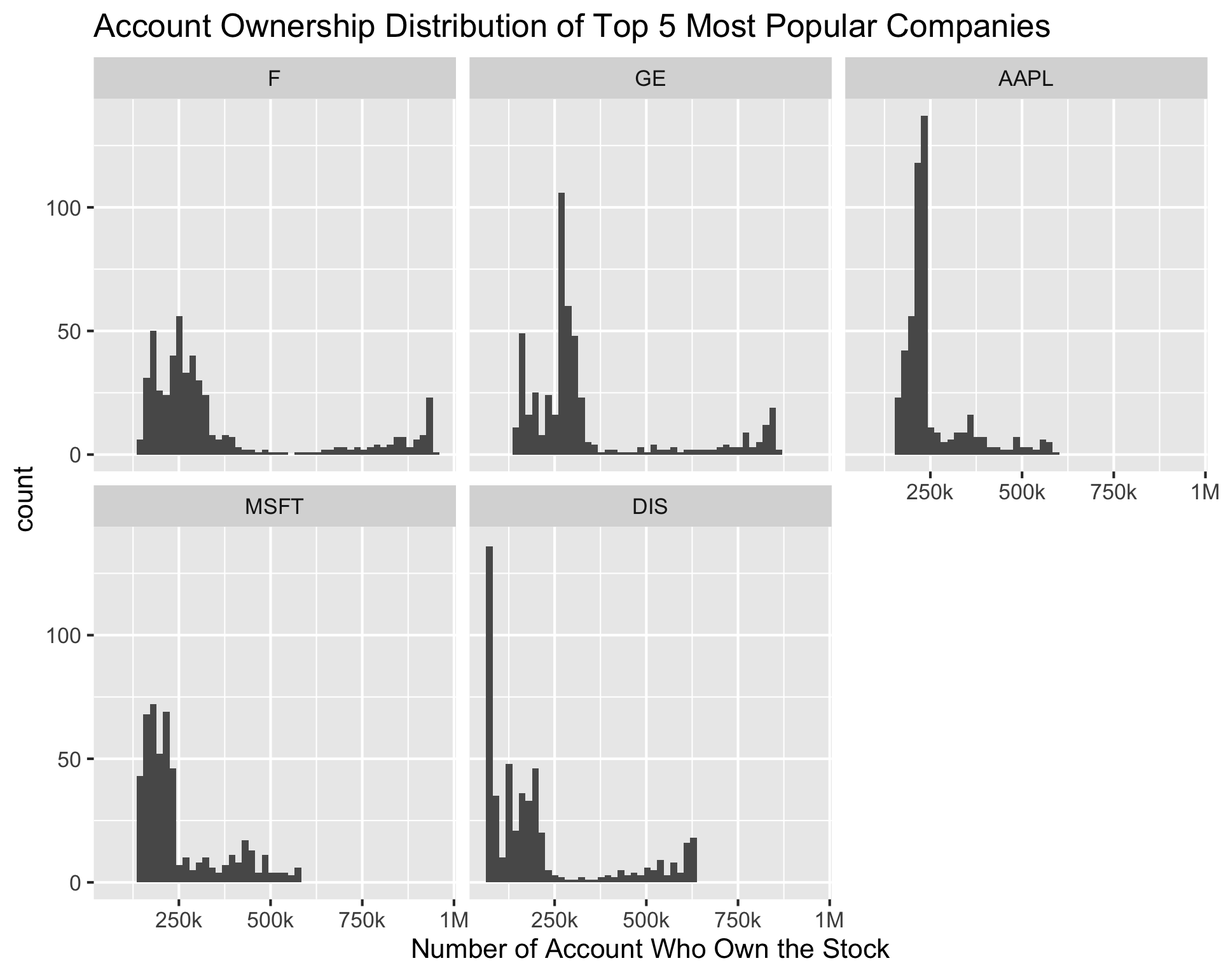
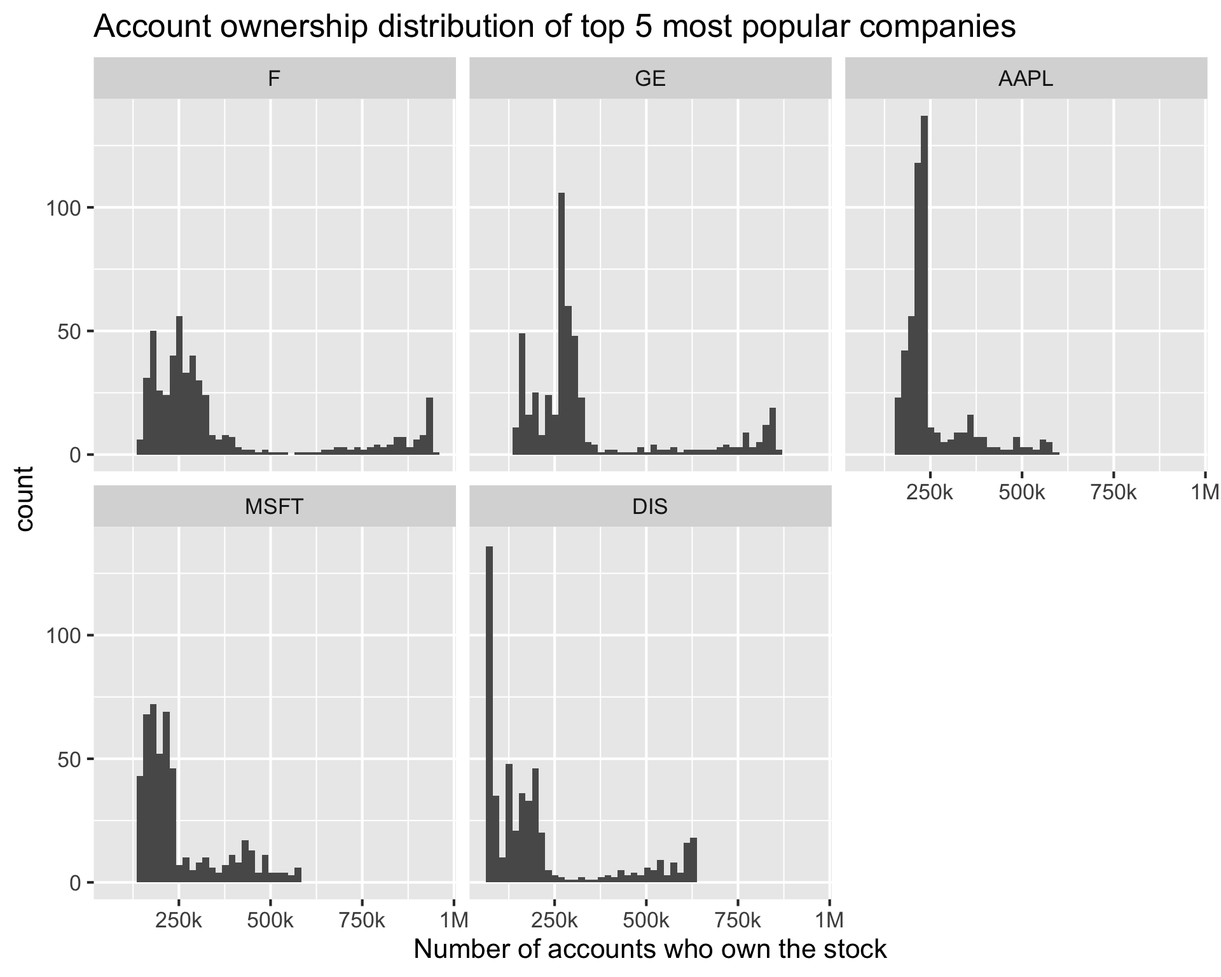
results so far

Changed region(s): [[0.1875, 0.0, 0.8438, 0.0625], [0.5312, 0.9375, 0.7188, 1.0], [0.3438, 0.9375, 0.4688, 1.0]]

diff --git a/docs/results.html b/docs/results.html
@@ -99,8 +99,8 @@
 </ul></li>
 <li class="chapter" data-level="5" data-path="results.html"><a href="results.html"><i class="fa fa-check"></i><b>5</b> Results</a><ul>
 <li class="chapter" data-level="5.1" data-path="results.html"><a href="results.html#important-terms"><i class="fa fa-check"></i><b>5.1</b> Important terms</a></li>
-<li class="chapter" data-level="5.2" data-path="results.html"><a href="results.html#yearly-average-ownership-by-industry"><i class="fa fa-check"></i><b>5.2</b> Yearly average ownership by industry</a></li>
-<li class="chapter" data-level="5.3" data-path="results.html"><a href="results.html#ownership-by-company"><i class="fa fa-check"></i><b>5.3</b> Ownership by company</a></li>
+<li class="chapter" data-level="5.2" data-path="results.html"><a href="results.html#yearly-average-stock-ownership-by-industry"><i class="fa fa-check"></i><b>5.2</b> Yearly average stock ownership by industry</a></li>
+<li class="chapter" data-level="5.3" data-path="results.html"><a href="results.html#a-closer-look-at-the-companies"><i class="fa fa-check"></i><b>5.3</b> A closer look at the companies</a></li>
 <li class="chapter" data-level="5.4" data-path="results.html"><a href="results.html#ownership-of-the-very_popular-companies"><i class="fa fa-check"></i><b>5.4</b> Ownership of the <code>very_popular</code> companies</a></li>
 <li class="chapter" data-level="5.5" data-path="results.html"><a href="results.html#ownership-vs-founding-year"><i class="fa fa-check"></i><b>5.5</b> Ownership vs Founding Year</a></li>
 </ul></li>
@@ -127,14 +127,17 @@
             <section class="normal" id="section-">
 <div id="results" class="section level1">
 <h1><span class="header-section-number">Chapter 5</span> Results</h1>
-<p>The main focus of our analysis will examine Robintrack’s users stock holding of the S&amp;P500 companies between August 2018 - August 2020. We will explore how price, market cap, industry and founding year affect user’s holding.</p>
+<p>The main focus of our analysis will examine Robihood’s users stock holding of the S&amp;P500 companies between August 2018 - August 2020. We will explore how price, market cap, industry and founding year affect user’s holding.</p>
 <div id="important-terms" class="section level2">
 <h2><span class="header-section-number">5.1</span> Important terms</h2>
+<p>We quantify how <strong>popular</strong> a company is by how many Robihood users hold its stock. More specifically, as mentioned in the data transformation section, we measure a stock’s popularity by averaging the amount of users holding across 2018-2020.</p>
+<p>Moreover, we assign each company to a popularity group by using KMeans clustering(k=3) for the average user’s holding over those 3 years. The three popularity categories are; <code>not_popular</code>(n=473), <code>normal</code>(n=16) and <code>very_popular</code>(n=5).</p>
+<p>As expected, most of the companies in the S&amp;P500 belong in the <code>not_popular</code> category and only 5 companies in the <code>very_popular</code> category.</p>
 </div>
-<div id="yearly-average-ownership-by-industry" class="section level2">
-<h2><span class="header-section-number">5.2</span> Yearly average ownership by industry</h2>
-<p>The first transformed dataframe the average user’s stock holding per industry for 2018, 2019 and 2020.</p>
-<p>In order explore the shifts in the most popular industries between 2018-2020, we have created a Clevland plot for which we have sorted the y axis in descending order for the users holding on 2020.</p>
+<div id="yearly-average-stock-ownership-by-industry" class="section level2">
+<h2><span class="header-section-number">5.2</span> Yearly average stock ownership by industry</h2>
+<p>First we explore the average user’s stock holding per industry for 2018, 2019 and 2020.</p>
+<p>In order explore the shifts in the most popular industries between 2018-2020, we have created a Cleveland plot for which we have sorted the y axis in descending order for the users holding on 2020.</p>
 <p><img src="finalproj_files/figure-html/qplot51-1.png" width="960" /></p>
 <p>Some insights that we can extract from the above plot are:</p>
 <ul>
@@ -142,67 +145,86 @@
 <li><p>This jump is especially evident in the following industries;<code>Comunication Services</code>, <code>Consumer Discretionary</code>,<code>Industrials</code> and <code>Energy</code>.</p></li>
 <li><p>The largest jump in user’s holding between 2019 and 2020 was in the <code>Consumer Discretionary</code> industry. A possible explanation could be the increased interest of the Amazon (AMZN) stock during the pandemic.</p></li>
 <li><p>Even though <code>Information Technology</code> industry had the second highest average user’s holding in 2018 and 2019, in 2020 it dropped to 4th place.</p></li>
-<li><p>Similarly in 2018 &amp; 2019 <code>Energy</code> industry was less attractive than <code>Consumer Staples</code>. However, in 2020 <code>Energy</code> attracted more stock holders. ``</p></li>
-<li><p>Another evident trend is that <code>Utilities</code>, <code>Materials</code> and <code>Real Estate</code> has similar average user’s holding between 2018 and 2019. On the other hand the rest of the industried have experienced and increase in user’s holding between these two years.</p></li>
+<li><p>Similarly in 2018 &amp; 2019 <code>Energy</code> industry was less attractive than <code>Consumer Staples</code>. However, in 2020 <code>Energy</code> attracted more stock holders.</p></li>
 <li><p>Moreover, <code>Consumer Staples</code> and <code>Industrials</code> industries have almost the same stock holding between 2018 and 2019. That trend was broken in 2020 when <code>Industrials</code> almost tripled in user’s holding compared to <code>Consumer Staples</code>.</p></li>
+<li><p>Another trend that we observe is that <code>Utilities</code>, <code>Materials</code> and <code>Real Estate</code> have similar average user’s holding between 2018 and 2019. On the other hand the rest of the industries have experienced an increase in user’s holding between these two years.</p></li>
 </ul>
 </div>
-<div id="ownership-by-company" class="section level2">
-<h2><span class="header-section-number">5.3</span> Ownership by company</h2>
-<p>In this subsection, we dig deeper to see if there are any pattern at the individual company level.</p>
-<p>We created a Cleveland dot plot to show the average number of account owners across all the companies in the S&amp;P500. In order to clearly show all 500 companes within the S&amp;P500, we plotted five Cleveland dot plots of 100 companies each in descending order by average account ownership over the time period with the same x-axis scale for ease of comparison.</p>
-<p>We can quickly see from these 5 graphs that the majority of the stocks are “not popular” which means there are few accounts who own this stock. There are only a handful of stocks that have considerably higher number of accounts who own the stocks. Based on this observation, we divide the companies into three categories: very popular, normally popular, and not popular with details noted in the Data Transformation section. In the subsequent data exploration, we focus our attention on the “very popular” category given there are much greater investor attention on these companies.</p>
+<div id="a-closer-look-at-the-companies" class="section level2">
+<h2><span class="header-section-number">5.3</span> A closer look at the companies</h2>
+<p>After exploring the trends in users holding by industry, we dig deeper to see if there are any patterns at the individual company level.</p>
+<p>As we already mentioned in the introduction of this section we divide the companies into three categories: very popular, normally popular. In the subsequent data exploration, we focus our attention on the “very popular” category given there are much greater investor attention on these companies.</p>
 <p>We first take a look at companies within the most popular category.</p>
 <pre><code>## [1] &quot;F&quot;    &quot;GE&quot;   &quot;AAPL&quot; &quot;MSFT&quot; &quot;DIS&quot;</code></pre>
 <p>The top five most popular (by average number of account owners) companies are F (Ford Motors Vehicle), GE (General Electric Company), AAPL (Apple), MSFT (Microsoft), and DIS (Disney). Unsurprisingly these are well-established companies that most households know. This is consistent with intuition that the most investors using the Robinhood app are retail investors so would invest in stable, well-known companies.</p>
 <pre><code>##  [1] &quot;AMD&quot;  &quot;FB&quot;   &quot;BAC&quot;  &quot;AMZN&quot; &quot;TWTR&quot; &quot;NFLX&quot; &quot;AAL&quot;  &quot;DAL&quot;  &quot;NVDA&quot; &quot;SBUX&quot;
 ## [11] &quot;T&quot;    &quot;CCL&quot;  &quot;BA&quot;   &quot;KO&quot;   &quot;MU&quot;   &quot;NCLH&quot;</code></pre>
-<p>In the second tier of “normal”(ly) popular companies are AMD (Advanced Micro Devices), FB (Facebook), BAC (Bank of America), AMZN (Amazon), TWTR (Twitter), NFLX (Netflix), AAL (American Airline), DAL (Delta Airline), DAL (Nvidia), SBUX (Starbucks), T (AT&amp;T), Carnival, Boeing, Coca-Cola, Micron Technology, and Norwegian Cruise Line. Well most of these companies are also well-established companies, these are additional intuition supporting relatively higher account ownership behind these stocks. Many of these companies were heavily impacted by the pandemic and received intense investor attention in the post-COVID financial market. Travel-related companies such as American Airline, Delta Airline, and Boeing as well as leisure-related companies including Carnival and Norwegian Cruise line had businesses that were negatively impacted by the restriction imposed during the pandemic. This led to their stock prices to plummet considerably. Retail investors perhaps saw this as an opportunity to “buy the dip” and increase account ownership for these companies. Another trend we see is the prevalence of tech companies that are positively impacted by the work-from-home dynamic in the post-COVID world. Companies such as Advanced Micro Devices and Nvidia produce computing chips and systems for mobile computing</p>
+<p>In the second tier of “normal”(ly) popular companies are AMD (Advanced Micro Devices), FB (Facebook), BAC (Bank of America), AMZN (Amazon), TWTR (Twitter), NFLX (Netflix), AAL (American Airline), DAL (Delta Airline), DAL (Nvidia), SBUX (Starbucks), T (AT&amp;T), Carnival, Boeing, Coca-Cola, Micron Technology, and Norwegian Cruise Line.</p>
+<p>Most of these companies are also well-established companies, these are additional intuition supporting relatively higher account ownership behind these stocks. Many of these companies were heavily impacted by the pandemic and received intense investor attention in the post-COVID financial market. Travel-related companies such as American Airline, Delta Airline, and Boeing as well as leisure-related companies including Carnival and Norwegian Cruise line had businesses that were negatively impacted by the restriction imposed during the pandemic. This led to their stock prices to plummet considerably. Retail investors perhaps saw this as an opportunity to “buy the dip” and increase account ownership for these companies.</p>
+<p>Another trend we see is the prevalence of tech companies that are positively impacted by the work-from-home dynamic in the post-COVID world. Companies such as Advanced Micro Devices and Nvidia produce computing chips and systems for mobile computing.</p>
 <p>As we shall see later in our data exploration, Robinhood saw a significant increase in new accounts and investing activity post March 2020, further supporting the intuition that companies that were heavily impacted by the pandemic would see heightened attention.</p>
 </div>
 <div id="ownership-of-the-very_popular-companies" class="section level2">
 <h2><span class="header-section-number">5.4</span> Ownership of the <code>very_popular</code> companies</h2>
 <p>To better understand the distribution shape of the individual account ownership, we first looked at the histogram of the top 5 companies’ ownership distribution.</p>
-<p><img src="finalproj_files/figure-html/unnamed-chunk-15-1.png" width="960" /></p>
+<p><img src="finalproj_files/figure-html/unnamed-chunk-10-1.png" width="960" /></p>
 <p>Looking at the individual account ownership of the top 5 most popular companies, we can see that they are all right skewed distribution. There is one peak with high frequency for &lt;= 250k account owners. For companies like Disney, Ford, and General Electric there is a second peak near the highest number of accounts (750k-1mm) but that peak is much smaller the first at the lower end. This makes intuitive sense as the second peak of high number of accounts would result in an elevated average account ownership putting in on the most popular list. The more popular companies (such as F and GE) tend to have wider min-to-max ranges than the less popular ones.</p>
 <p>Next, we use boxplots to show the distribution of account ownership of the individual stocks within the most popular category. The circle denotes the mean for comparison with the quartiles.</p>
-<p><img src="finalproj_files/figure-html/unnamed-chunk-16-1.png" width="672" /></p>
-<p>Looking at the boxplots, it is evident that there are considerably number of outliers across all 5 companies. Almost all of the outliers are skewed toward the high end which would increase the average account ownership across the time period. With the exception of MSFT, the mean across the remaining 4 companies seems to be near or above the upper hinge. APPL stands out with a much smaller H-spread compared to the other companies suggesting that the number of accounts who owned Apple is concentrated around just below the 250k mark. Within the H-spread, the length to the lower hinge and upper hinge look to be relatively symmetric.</p>
-<p>As we tried to examine any patterns regarding outliers, we used time series line graphs to introduce time as another variable.</p>
+<p><img src="finalproj_files/figure-html/unnamed-chunk-11-1.png" width="672" /></p>
+<p>Looking at the boxplots:</p>
+<ul>
+<li><p>It is evident that there are considerably number of outliers across all 5 companies. Almost all of the outliers are skewed toward the high end which would increase the average account ownership across the time period.</p></li>
+<li><p>General Electric and Ford are the most popular among the top 5 companies. However, General Electric has a smaller spread than Ford.</p></li>
+<li><p>With the exception of Microsoft, the mean across the remaining 4 companies seems to be near or above the upper hinge.</p></li>
+<li><p>Apple stands out with a much smaller H-spread compared to the other companies suggesting that the number of accounts who owned Apple is concentrated around just below the 250k mark. Within the H-spread, the length to the lower hinge and upper hinge look to be relatively symmetric.</p></li>
+</ul>
+<p>Next we used time series line graphs of price, Market Cap and VIX to introduce time as a new perspective to users holding.</p>
 <p><img src="finalproj_files/figure-html/qplot57-1.png" width="1920" /></p>
-<p>By looking how the daily number of account owners for a particular stock changed over time, we can easily see a significant increase around the March-April 2020 timeframe. Visually we can see that all of the outliers at significantly large number of account owners are during the later end of the available dataset near summer 2020. This is consistent with what we observed in the boxplot and histogram where for the majority of time period (from Aug 2018 to March 2020), the daily number of account owners was relatively stable within a tight range.</p>
-<p>Next, we plot the stock prices of the top 5 most popular companies to see if there’s any relationship between the stock price and number of account owners.
-<img src="finalproj_files/figure-html/qplot59-1.png" width="1920" /></p>
+<p>By looking at the daily number of account owners for a particular stock changed over time, we can easily see a significant increase around the March-April 2020 time frame. Visually we can see that all of the outliers at significantly large number of account owners are during the later end of the available dataset near summer 2020. This is consistent with what we observed in the boxplot and histogram where for the majority of time period (from Aug 2018 to March 2020), the daily number of account owners was relatively stable within a tight range.</p>
+<p>Next, we plot the stock prices of the top 5 most popular companies to see if there’s any relationship between the stock price and number of account owners. We look at both the actual stock value and the normalized stock price.</p>
+<p><img src="finalproj_files/figure-html/qplot59-1.png" width="1920" /></p>
+<p>Some observations from the above plot:</p>
+<ul>
+<li><p>There is a major drop in stock prices for all <code>very_popular</code> companies in March 2020. These prices dropped almost two weeks after the first COVID case in the US.</p></li>
+<li><p>Prices recovered from their drop during end of March 2020 and began rising. This increasing trend is in sync with the increasing number of Robinhood users holding these stocks.</p></li>
+<li><p>Price is negatively correlated with the popularity of a stock. For example, Ford and General Electric have the lowest stock prices among the <code>very_popular</code>and they have the highest user’s holding. This aligns with our intuition that the low price makes these two stocks an attractive investment for Robinhood’s users. On the other hand, Microsoft in August 2020 was the most expensive stock to buy and had the lowest amount of users holding it.</p></li>
+<li><p>All <code>very_popular</code> companie’s stock price was dropping during March 2020. After March 2020 stock prices increased. For Microsoft and Apple, stock prices rose so sharply until August 2020 that they were almost double of what they were in August 2018. This rise in price also follows the trend of the increase in numbers of users investing in these companies.</p></li>
+<li><p>Interestingly enough, even though Disney in August 2020 had more user’s holding it’s stock than Apple and Microsoft, it didn’t pick up the sharp increase in price. August 2020 and August 2018 prices are not that different.</p></li>
+<li><p>From August 2018 to November 2020, Disney’s and Microsoft’s stock price was following similar patterns. However, from November 2020 onward, Microsoft had an increase in price and Disney a drop in price. In August 2020 Microsoft’s stock price was almost twice as much as Disney’s.</p></li>
+<li><p>Disney at the end of April 2019 annouced plans to launch its own streaming video platform. We can therefore see users increased interst in Disney stock through an increase both in popularity and price. This trend ended due to the pandemic.</p></li>
+</ul>
+<p>In order to be able to better compare the stock prices among those companies, we standardized all prices to be 100 in August 2018. Our goal is to see their relative increases and decreases till August 2020.</p>
 <p><img src="finalproj_files/figure-html/qplot599-1.png" width="1920" /></p>
+<p>This plot makes it is easier to compare how these companies stock price changed through August 2018 - August 2020.</p>
+<ul>
+<li><p>General Electric had some price drops during November 2018- February 2019 as well as August 2019 and October 2019. It recovered from those price drops until COVID. It didn’t recover the stock price compared to the other <code>very_popular</code> companies.</p></li>
+<li><p>Ford’s price was steady throughout 2018-2019 until March 2019. After than price drop, it didn’t manage to recover fully.</p></li>
+<li><p>Apple’s stock price wasn’t as high as Disney’s and Microsoft’s from December 2018 to October 2019. However, it steadily rose since June 2019 and surpassed Disney’s price in October 2019.</p></li>
+<li><p>It is evident from this graph that both Apple and Microsoft have exhibited similar increasing price patterns during August 2018 - August 2020.</p></li>
+</ul>
 <p>We also looked at the market capitalization of these 5 companies. The market capitalization measures the size of the company’s outstanding equity value. It is calculated by stock price multiplied by the number of shares outstanding.</p>
 <p><img src="finalproj_files/figure-html/qplot58-1.png" width="1920" /></p>
-<p>Since stock price level is an input in the market capitalization, it is unsurprisingly that the daily market cap of the companies follow a similar shape to the stock price. In this graph, Apple has a higher market cap than Microsoft despite Microsoft having a higher stock price. This trend is not statistically meaningful because Microsoft simply has lower number of shares outstanding.</p>
+<p>Since stock price level is an input in the market capitalization, it is unsurprising that the daily market cap of the companies follow a similar shape to the stock price. In this graph, Apple has a higher market cap than Microsoft despite Microsoft having a higher stock price. This trend is not statistically meaningful because Microsoft simply has lower number of shares outstanding.</p>
 <p>From the graphs, we can see that across all 5 companies, the stock price took a hit in March 2020 coinciding with the onset of the pandemic in the US. After the initial drop in price, the stock prices slowly increased back up. It is not consistent whether the stock prices increased back to the pre-pandemic level. One theory for this behavior is that investors using Robinhood took the opportunity to buy stocks when the price was low. Since these 5 companies are well established companies that are unlikely to be negatively impacted by the pandemic, investors increased their ownership of these stocks. They continued to buy these stocks as the stock prices continue to rise as a positive feedback loop to the positive returns on their investments.</p>
 <p>Lastly, we looked at the VIX index which measure the market-implied pricing for markets volatility. It is an industry standard metric that indicates investor’s expectation for uncertainty with a higher number corresponding to higher volatility.</p>
 <p><img src="finalproj_files/figure-html/qplot60-1.png" width="960" /></p>
-<p>We see that the VIX spiked significantly during the March-April 2020 timeframe corresponding to when we saw a drop in stock price. Since the VIX is an indicator across the broader S&amp;P500 index, it suggests that the outsized stock price movement was not limited to just the top 5 companies that we looked at. It further validates our original intuition that there is a trend of Robinhood investors taking advantage of the market uncertainty in March/April 2020 to buy certain well-established companies. By buying in well known companies with limited adverse impact from COVID-19, the investors can invest their money in a relatively safe stock that preserve capital and buy at a lower price with the hope that the stock returns back to previous levels. The continuation of higher account owners may be both attributed to higher overall accounts on Robinhood as well as positive feedback from subsequent stock performance.</p>
+<p>We see that the VIX spiked significantly during the March-April 2020 time frame corresponding to when we saw a drop in stock price. Since the VIX is an indicator across the broader S&amp;P500 index, it suggests that the outsized stock price movement was not limited to just the top 5 companies that we looked at.</p>
+<p>It further validates our original intuition that there is a trend of Robinhood investors taking advantage of the market uncertainty in March/April 2020 to buy certain well-established companies. By buying in well known companies with limited adverse impact from COVID-19, the investors can invest their money in a relatively safe stock that preserve capital and buy at a lower price with the hope that the stock returns back to previous levels. The continuation of higher account owners may be both attributed to higher overall accounts on Robinhood as well as positive feedback from subsequent stock performance.</p>
 </div>
 <div id="ownership-vs-founding-year" class="section level2">
 <h2><span class="header-section-number">5.5</span> Ownership vs Founding Year</h2>
-<p>As mentioned in the data transformation section, we measure a stock’s popularity by averaging amount of user’s holding acrross 2018-2020. We assign each company to a popularilty group by using KMeans clustering(k=3) for the avergage user’s holding over those 3 years. The three popularity categories are; <code>not_popular</code>(n=473), <code>normal</code>(n=16) and <code>very_popular</code>(n=5).</p>
-<p>Moreover, as mentioned in the transformation section, we have also split the companies in three fouding dates ranges. We again used KMeans clustering(k=3) in order to group the S&amp;P500 companies in three age groups for which we recorded the minimum and maximum founding rate in each group as their label. More specifically the three founding ranges are;<code>1784-1892</code>(n=247),<code>1894-1952</code>(n=400), <code>1954-2019</code>(n=798).</p>
+<p>As mentioned in the transformation section, we have also split the companies in three founding dates ranges. We again used KMeans clustering(k=3) in order to group the S&amp;P500 companies in three age groups for which we recorded the minimum and maximum founding rate in each group as their label. More specifically the three founding ranges are;<code>1784-1892</code>(n=247),<code>1894-1952</code>(n=400), <code>1954-2019</code>(n=798).</p>
 <p><img src="finalproj_files/figure-html/qplot56-1.png" width="576" /></p>
-<p>In the above mosaic plot we can see that there is a correlation between the age of a company and its popularity. More specifically:</p>
+<p>Key takeaways from the above plot:</p>
 <ul>
-<li><p>We can see that for the less popular companies there is an equal amount of observations across all three founding ranges.</p></li>
-<li><p>When comparing the normal and the less popular companies we can see an increase in popularity as the founding date becomes more recent.</p></li>
-<li><p>Moreover, even though the oldest copanies are the ones that appear the least across the very popular companies, we can see that the medium founding range companies (<code>1894-1952</code>) are the the most across the <code>very_popular</code>.</p></li>
-<li><p>We would have been able to identify a positive correlation between how recently a company was founded and how popular the company is amongst Robinhood users. However this trend is broken in the <code>very_popular</code> companies.</p></li>
+<li><p>When comparing the old and the medium founding range companies (<code>1784-1892</code>and <code>1894-1952</code>) there seems to be a positive correlation with popularity. Companies that were founded in <code>1894-1952</code> are more likely to belong to the <code>normal</code> and the <code>very_popular</code> categories compared to companies founded in <code>1784-1892</code>.</p></li>
+<li><p>However, this positive correlation trend is broken when we look at the most recently founded companies. This group has the most <code>normal</code> popularity companies across all founding range groups.</p></li>
+<li><p>Companies that were most recently founded have the least count in the <code>very_popular</code> category. We would have been able to identify a positive correlation between how recently a company was founded and how popular the company is among Robinhood users. However this trend is broken in the <code>1954-2019</code> companies.</p></li>
+<li><p>Most of the companies are in the <code>not_popular</code> category. It seems that for this category it doesn’t really matter when the company was founded.</p></li>
 </ul>
-<p>A possible explanation of the partial positive correlation between founding year and popularity could due to the fact that Robinhood’s average customer is young<a href="#fn2" class="footnote-ref" id="fnref2"><sup>2</sup></a> and therefore is more aware of the more recently founded companies.</p>
+<p>A possible explanation of the partial positive correlation between founding year and popularity could due to the fact that older companies have been around for longer and thus people know of them.</p>
 
 </div>
-</div>
-<div class="footnotes">
-<hr />
-<ol start="2">
-<li id="fn2"><p>According to <a href="https://www.nytimes.com/2020/07/08/technology/robinhood-risky-trading.html">this</a> article<a href="results.html#fnref2" class="footnote-back">↩</a></p></li>
-</ol>
 </div>
             </section>
 
